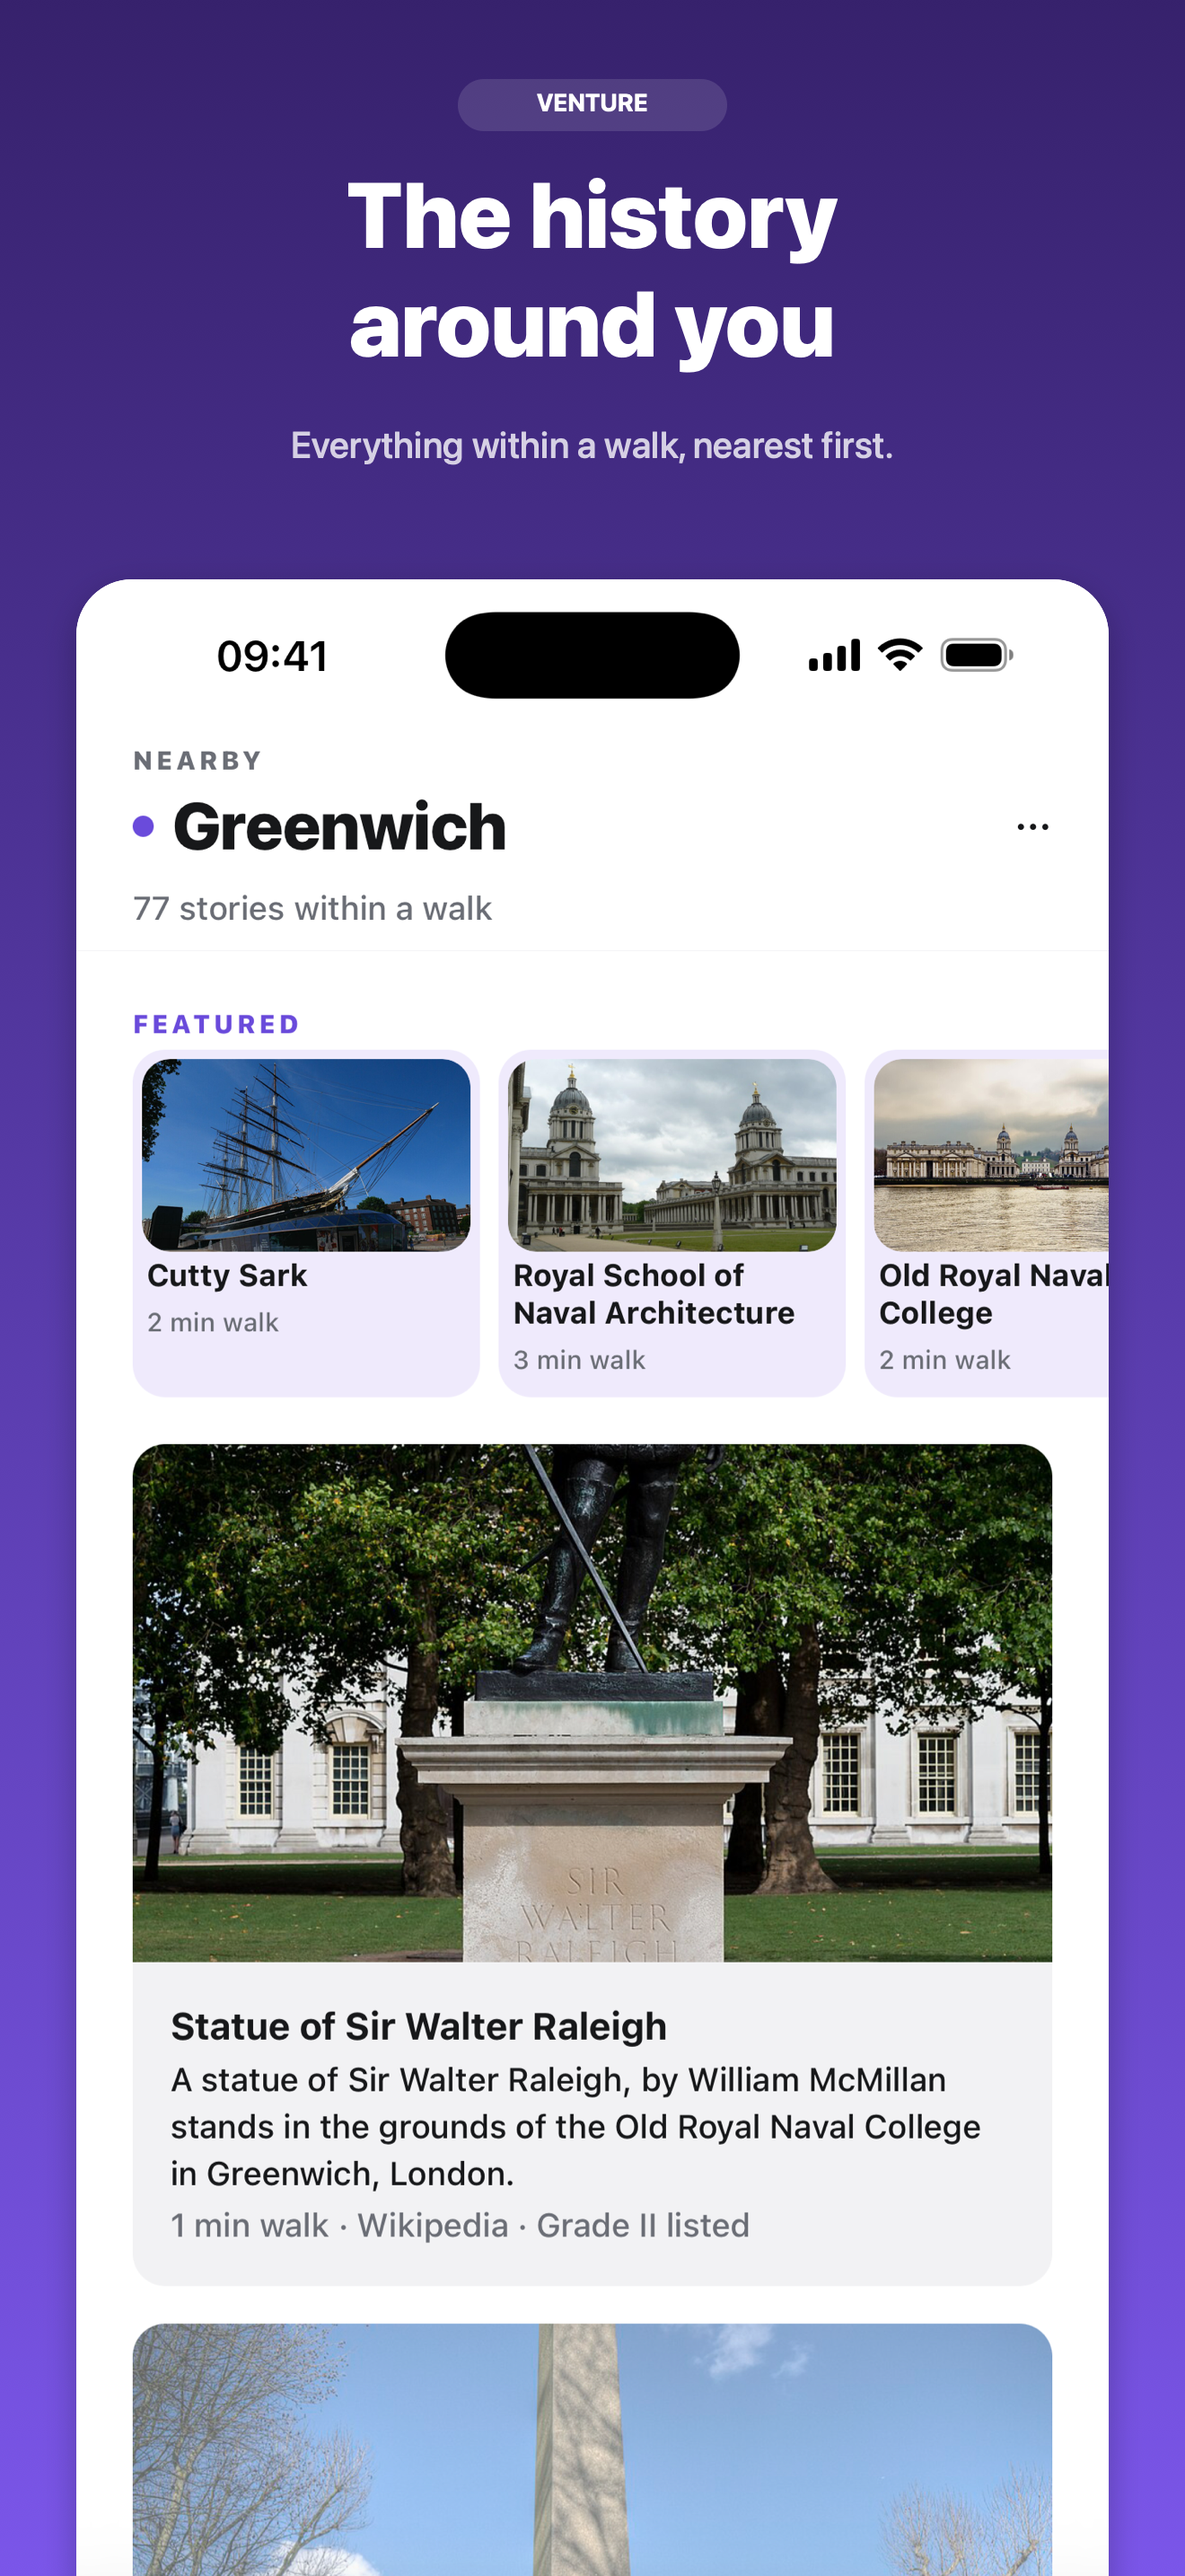
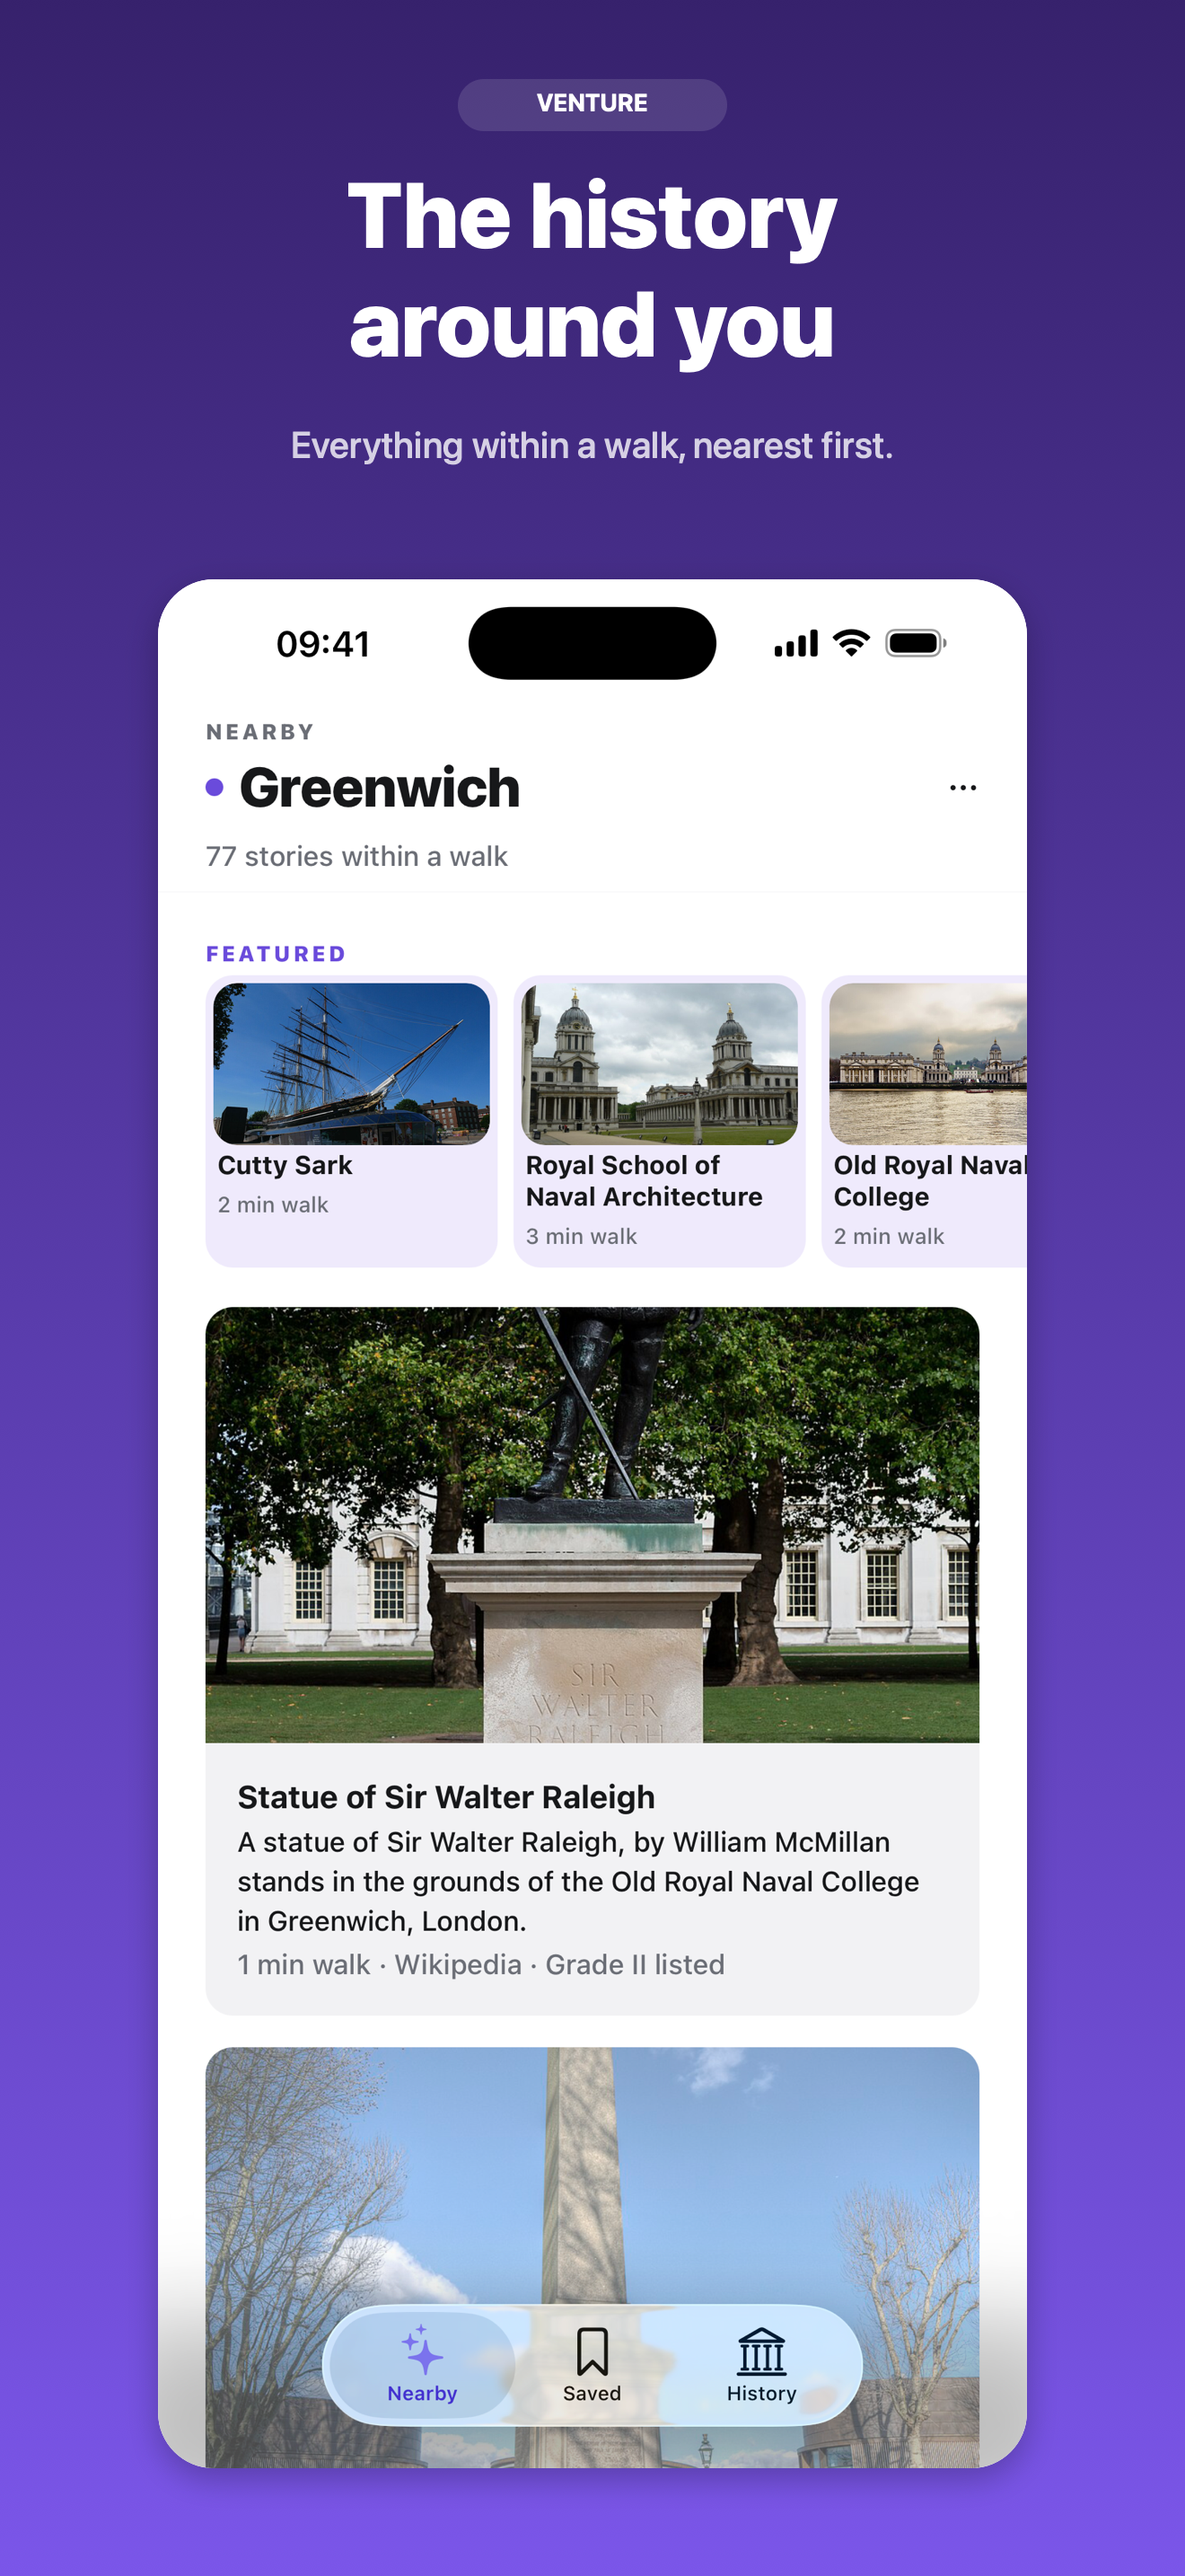
The marketing canvas is made to fit its screenshot, not hope to
The panel composited a fixed 1150pt-wide screenshot and derived the
height from the aspect ratio, which only fits while the aspect ratio
holds. Derive the height from the space actually left between the
headline and the bottom margin, derive the width from that, and centre
it — then assert the result lands inside the canvas, so a geometry that
would overflow fails the render instead of shipping a cropped panel.

Panels re-rendered, and the App Store copies updated with them.

diff --git a/app-store/screenshots/marketing/render.swift b/app-store/screenshots/marketing/render.swift
@@ -97,9 +97,17 @@ for panel in panels {
            font: NSFont.systemFont(ofSize: 41, weight: .medium), color: panel.mutedColor, lineSpacing: 5)
 
   let shotTop: CGFloat = 645
-  let shotWidth: CGFloat = 1150
-  let shotHeight = shotWidth * CGFloat(height) / CGFloat(width)
-  let shotRect = topRect(x: 85, y: shotTop, width: shotWidth, height: shotHeight)
+  let shotBottom: CGFloat = 120
+  let shotHeight = CGFloat(height) - shotTop - shotBottom
+  let shotWidth = shotHeight * CGFloat(width) / CGFloat(height)
+  let shotX = (CGFloat(width) - shotWidth) / 2
+  let shotRect = topRect(x: shotX, y: shotTop, width: shotWidth, height: shotHeight)
+
+  precondition(
+    shotRect.minX >= 0 && shotRect.minY >= 0 &&
+    shotRect.maxX <= CGFloat(width) && shotRect.maxY <= CGFloat(height),
+    "Screenshot must fit entirely within the marketing canvas"
+  )
 
   NSGraphicsContext.saveGraphicsState()
   let shadow = NSShadow()
